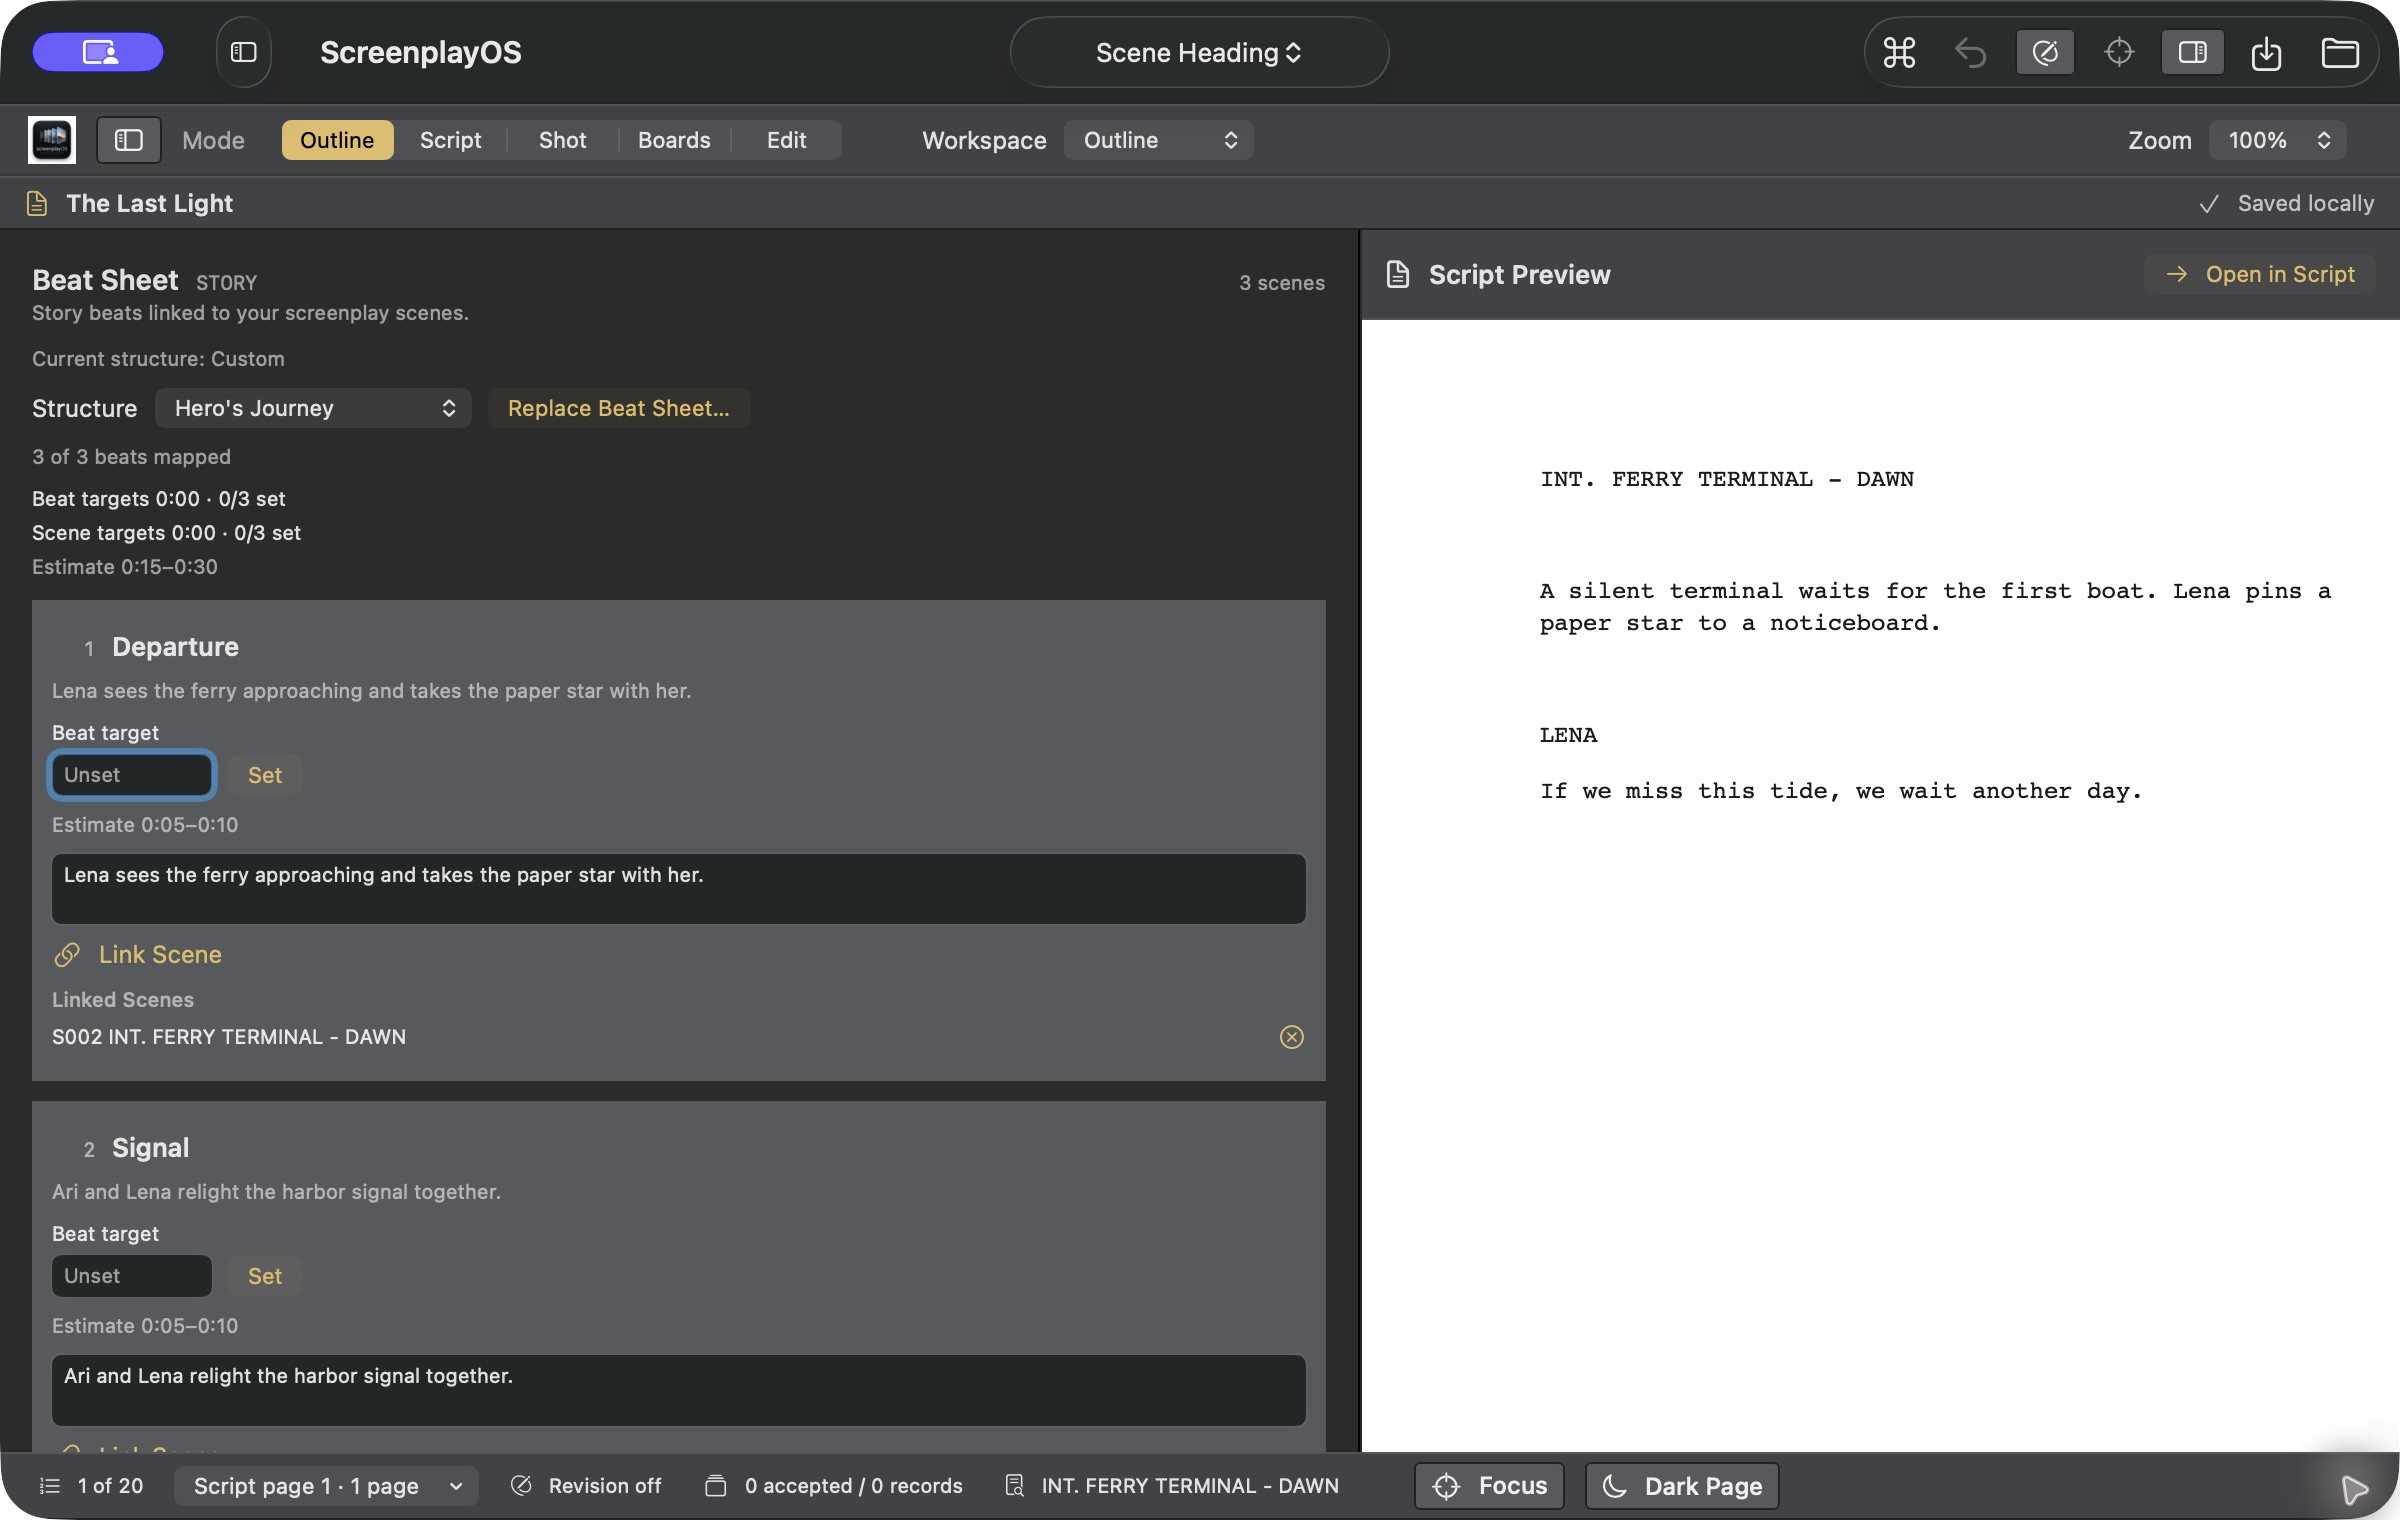
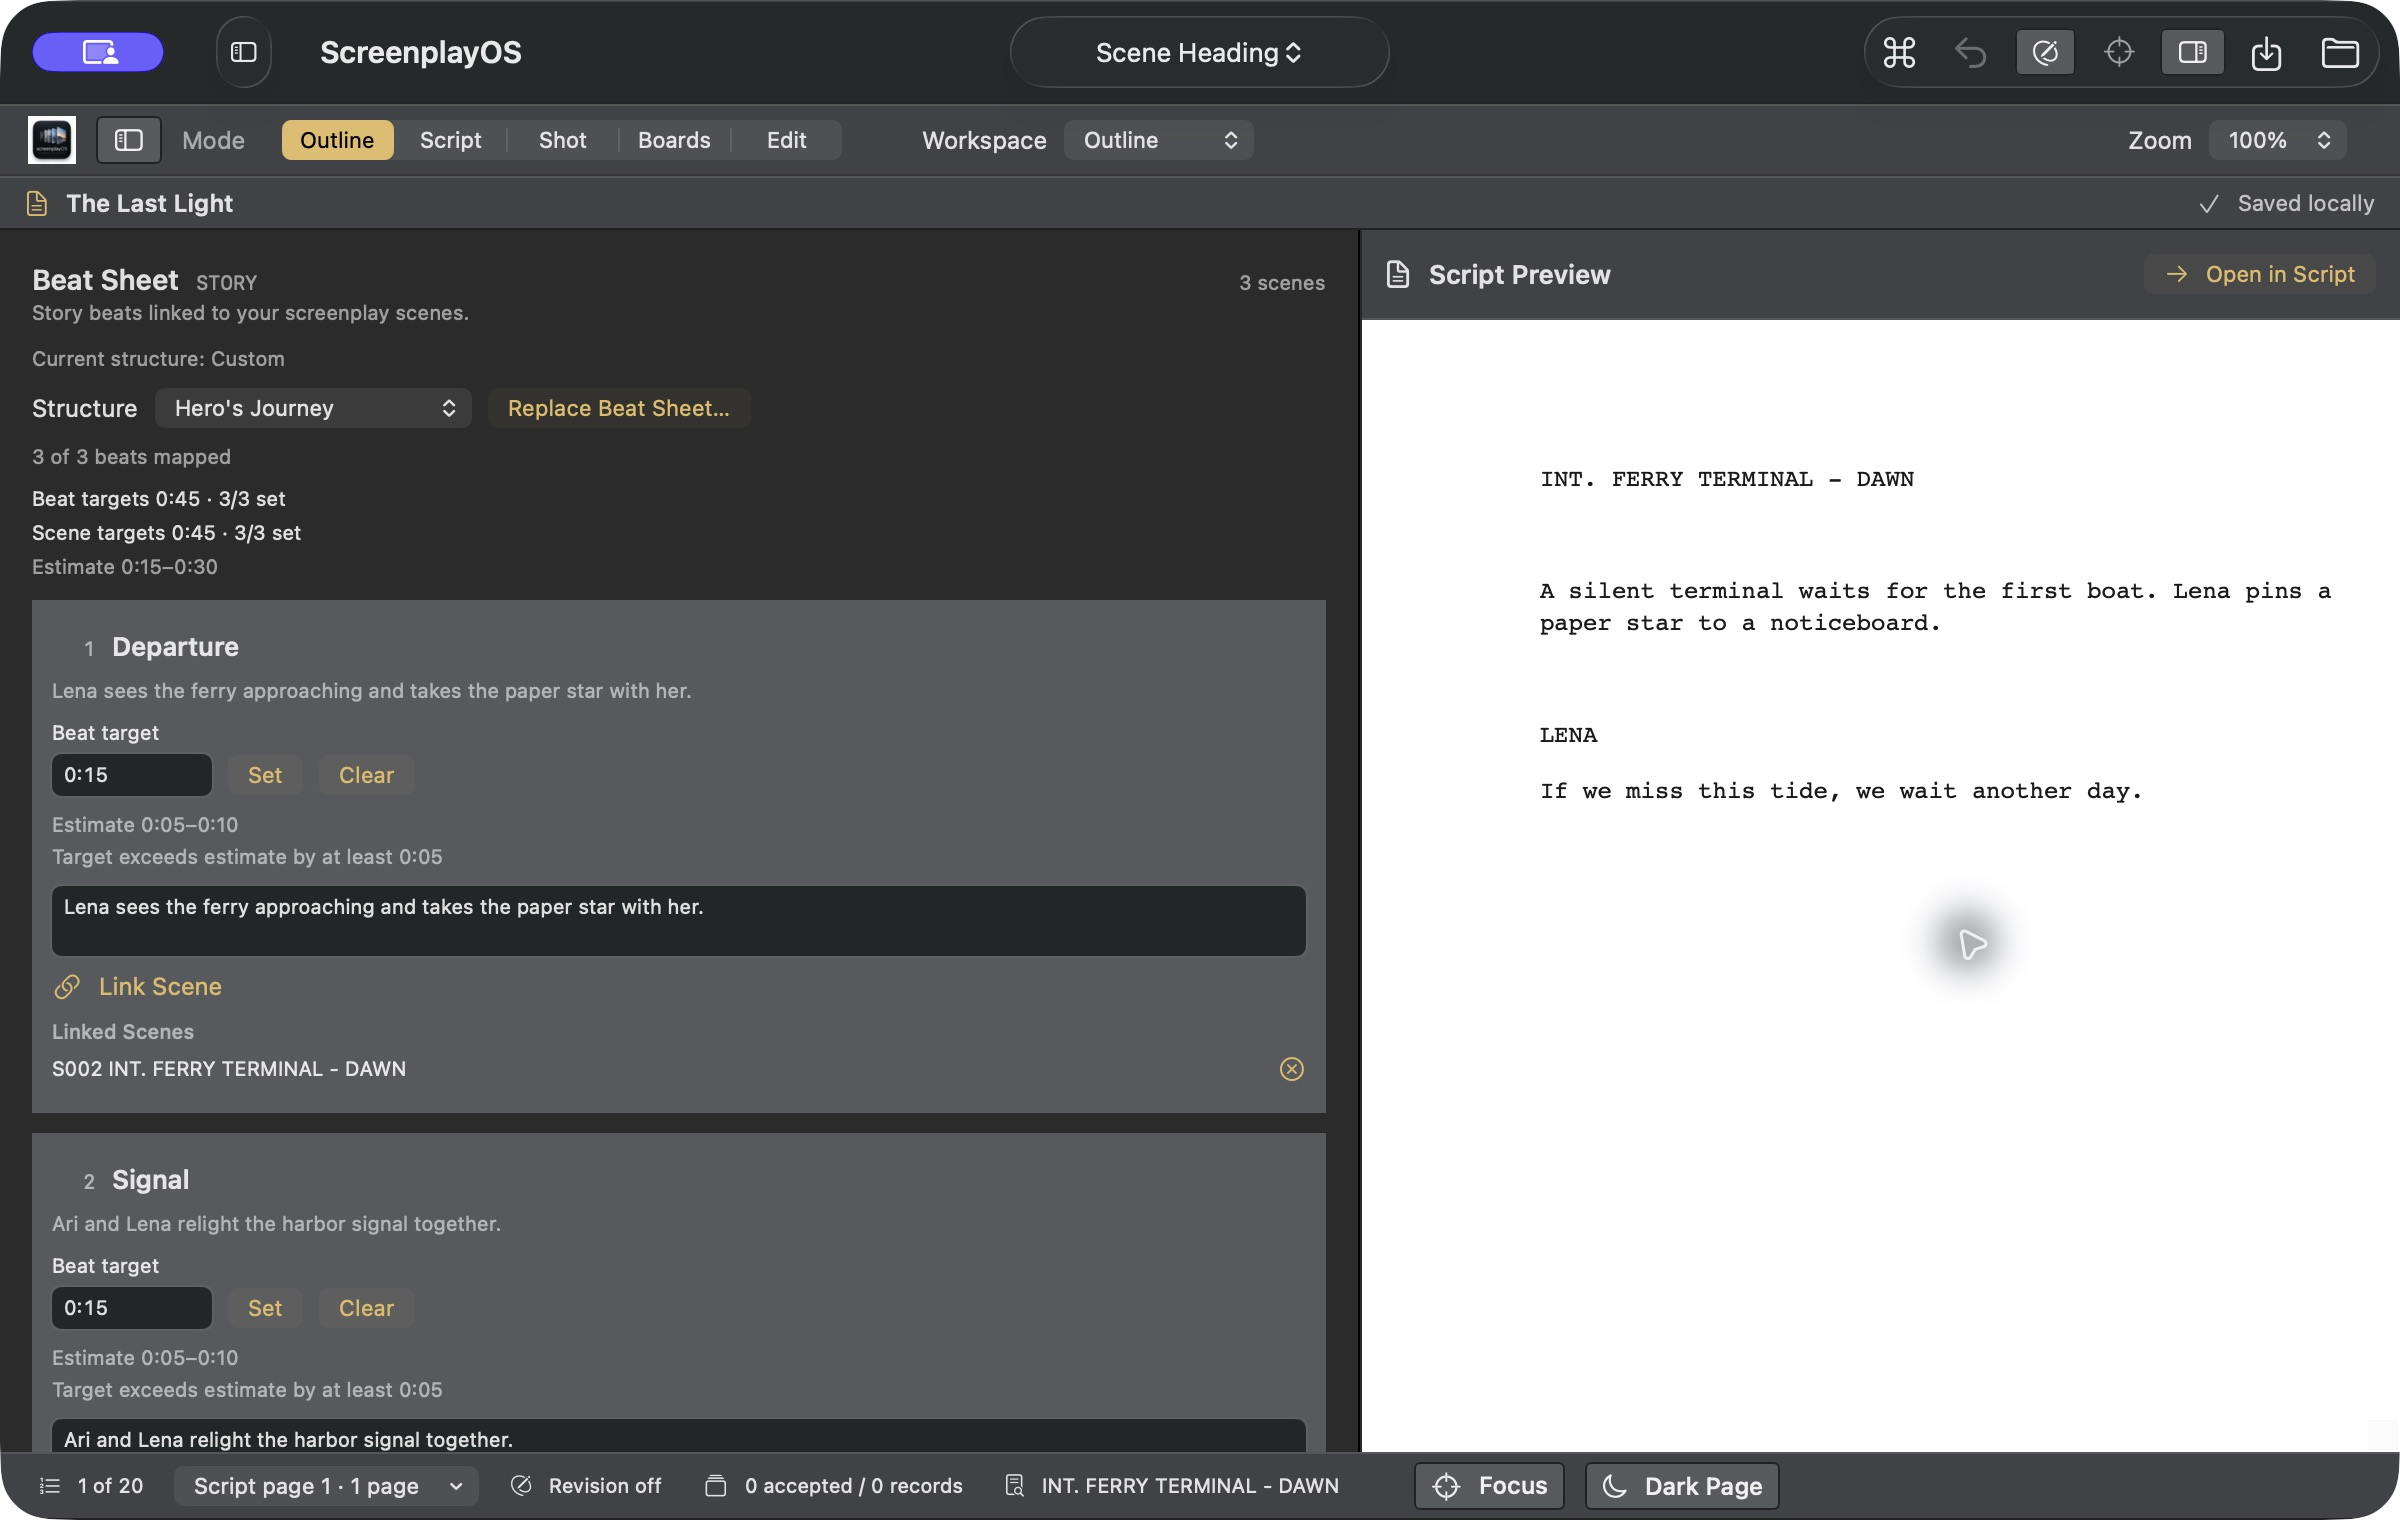
Polish hero and mode screenshot crops

diff --git a/Website/index.html b/Website/index.html
@@ -4,6 +4,7 @@
   <meta charset="utf-8">
   <meta name="viewport" content="width=device-width, initial-scale=1">
   <meta name="theme-color" content="#f5f6f5">
+  <meta name="site-revision" content="round-11">
   <meta name="description" content="A native Mac workspace that takes a story from outline to script, shots, boards, and a timed animatic, with the edit in mind at every stage.">
   <title>ScreenplayOS — Every stage planned for the cut</title>
   <link rel="icon" type="image/png" sizes="32x32" href="assets/brand/favicon-32.png">
@@ -22,7 +23,7 @@
       <div class="hero-copy">
         <p class="eyebrow">NATIVE FILMMAKING WORKSPACE FOR MAC · EARLY ACCESS BETA</p>
         <h1 id="hero-title">From first beat<br>to first cut.</h1>
-        <p class="lead lead-primary">Outline, write, generate shot lists, board, and play a timed animatic in one project.</p>
+        <p class="lead lead-primary">Outline, write, break down shots, board, and play a timed animatic in one project.</p>
         <p class="lead">Optional AI suggests dialogue and generates board images using your own provider key — only when you ask, and only after you see what's sent.</p>
         <form class="signup-form hero-signup" action="https://signup.screenplayos.com/subscribe" method="post" aria-label="Get the ScreenplayOS download by email">
           <label for="hero-email">Email address</label>
@@ -33,7 +34,11 @@
         </form>
         <p class="small-line">Works offline. No account required.</p>
       </div>
-      <div class="hero-art"><div class="hero-crop"><picture><source srcset="assets/screenshots/edit.webp" type="image/webp"><img src="assets/screenshots/edit.png" alt="Edit view with an original illustrated board above a twelve-shot, 45-second timed timeline" width="2400" height="1520" fetchpriority="high"></picture></div></div>
+      <a class="hero-art" href="assets/screenshots/edit.png" target="_blank" rel="noopener" aria-label="Open full-size Edit screenshot">
+        <span class="hero-pane hero-board"><picture><source srcset="assets/screenshots/edit.webp" type="image/webp"><img src="assets/screenshots/edit.png" alt="Original illustrated ferry board above labeled, timed shot clips in ScreenplayOS Edit view" width="2400" height="1520" fetchpriority="high"></picture></span>
+        <span class="hero-pane hero-timeline"><picture><source srcset="assets/screenshots/edit.webp" type="image/webp"><img src="assets/screenshots/edit.png" alt="" width="2400" height="1520" aria-hidden="true"></picture></span>
+        <span class="mode-enlarge">View full-size Edit screenshot ↗</span>
+      </a>
     </section>
     <!-- Walkthrough is hidden until the video is ready.
     <section class="walkthrough" id="walkthrough" aria-labelledby="walkthrough-title"><div class="wrap walkthrough-grid"><div><p class="eyebrow">WALKTHROUGH</p><h2 id="walkthrough-title">One sequence, outline to animatic.</h2><p>A walkthrough of a real sequence from beats to script, shot list, boards, and a playable, timed animatic is being recorded.</p></div><div class="video-placeholder" role="img" aria-label="Walkthrough video is not available yet"><span>Walkthrough coming soon</span></div></div></section>
@@ -42,11 +47,11 @@
       <p class="eyebrow">ONE PROJECT · FIVE VIEWS</p>
       <h2 id="workflow-title">One project. Every stage connected.</h2>
       <ol class="mode-list" aria-label="Outline to Edit workflow">
-        <li class="mode-item"><div class="mode-copy"><span class="mode-number">01</span><h3>Outline</h3><p>Shape the story in beats and see estimated runtime as you plan.</p></div><a class="mode-visual mode-visual-outline" href="assets/screenshots/outline.png" target="_blank" rel="noopener" aria-label="Open full-size Outline screenshot"><span class="mode-crop"><picture><source srcset="assets/screenshots/outline.webp" type="image/webp"><img src="assets/screenshots/outline.png" alt="Outline mode with story beats linked to three screenplay scenes and a script preview" width="2400" height="1520" loading="lazy"></picture></span><span class="mode-enlarge">View full-size screenshot ↗</span></a></li>
+        <li class="mode-item"><div class="mode-copy"><span class="mode-number">01</span><h3>Outline</h3><p>Shape the story in beats and see estimated runtime as you plan.</p></div><a class="mode-visual mode-visual-outline" href="assets/screenshots/outline.png" target="_blank" rel="noopener" aria-label="Open full-size Outline screenshot"><span class="mode-crop"><picture><source srcset="assets/screenshots/outline.webp" type="image/webp"><img src="assets/screenshots/outline.png" alt="Outline Beat Sheet showing three mapped beats, 45 seconds of targets, and a 15-second target beside the first beat estimate" width="2400" height="1520" loading="lazy"></picture></span><span class="mode-enlarge">View full-size screenshot ↗</span></a></li>
         <li class="mode-item"><div class="mode-copy"><span class="mode-number">02</span><h3>Script</h3><p>Write in screenplay format; review each scene’s estimated screen time in Outline.</p></div><a class="mode-visual mode-visual-script" href="assets/screenshots/script.png" target="_blank" rel="noopener" aria-label="Open full-size Script screenshot"><span class="mode-crop"><picture><source srcset="assets/screenshots/script.webp" type="image/webp"><img src="assets/screenshots/script.png" alt="Script mode displaying a formatted screenplay page from The Last Light" width="2400" height="1520" loading="lazy"></picture></span><span class="mode-enlarge">View full-size screenshot ↗</span></a></li>
         <li class="mode-item"><div class="mode-copy"><span class="mode-number">03</span><h3>Shot</h3><p>Break scenes into shots linked to their source script elements.</p></div><a class="mode-visual mode-visual-shot" href="assets/screenshots/shot.png" target="_blank" rel="noopener" aria-label="Open full-size Shot screenshot"><span class="mode-crop"><picture><source srcset="assets/screenshots/shot.webp" type="image/webp"><img src="assets/screenshots/shot.png" alt="Shot mode showing scene text beside linked coverage suggestions and the shot composer" width="2400" height="1520" loading="lazy"></picture></span><span class="mode-enlarge">View full-size screenshot ↗</span></a></li>
-        <li class="mode-item"><div class="mode-copy"><span class="mode-number">04</span><h3>Boards</h3><p>Build board frames from linked shots and set their durations. Optionally ask OpenAI to generate a board image with your Keychain-stored key after reviewing the editable prompt.</p></div><a class="mode-visual mode-visual-boards" href="assets/screenshots/boards.png" target="_blank" rel="noopener" aria-label="Open full-size Boards screenshot"><span class="mode-crop"><picture><source srcset="assets/screenshots/boards.webp" type="image/webp"><img src="assets/screenshots/boards.png" alt="Boards mode showing original illustrated frames linked to shots with authored durations" width="2400" height="1520" loading="lazy"></picture></span><span class="mode-enlarge">View full-size screenshot ↗</span></a></li>
-        <li class="mode-item"><div class="mode-copy"><span class="mode-number">05</span><h3>Edit</h3><p>Play timed boards. Export a timed sequence that opens in Premiere Pro or Final Cut Pro, ready for real footage and sound.</p></div><a class="mode-visual mode-visual-edit" href="assets/screenshots/edit.png" target="_blank" rel="noopener" aria-label="Open full-size Edit screenshot"><span class="mode-crop"><picture><source srcset="assets/screenshots/edit.webp" type="image/webp"><img src="assets/screenshots/edit.png" alt="Edit mode showing an illustrated board above a 45-second timeline of twelve timed shots across three scenes" width="2400" height="1520" loading="lazy"></picture></span><span class="mode-enlarge">View full-size screenshot ↗</span></a></li>
+        <li class="mode-item"><div class="mode-copy"><span class="mode-number">04</span><h3>Boards</h3><p>Build board frames from linked shots and set their durations. Optionally ask OpenAI to generate a board image with your Keychain-stored key after reviewing the editable prompt.</p></div><a class="mode-visual mode-visual-boards" href="assets/screenshots/boards.png" target="_blank" rel="noopener" aria-label="Open full-size Boards screenshot"><span class="mode-crop"><picture><source srcset="assets/screenshots/boards.webp" type="image/webp"><img src="assets/screenshots/boards.png" alt="Boards view with one complete illustrated board, its 3.5-second duration, and the Generate board image button" width="2400" height="1520" loading="lazy"></picture></span><span class="mode-enlarge">View full-size screenshot ↗</span></a></li>
+        <li class="mode-item"><div class="mode-copy"><span class="mode-number">05</span><h3>Edit</h3><p>Play timed boards. Export a timed sequence that opens in Premiere Pro or Final Cut Pro, ready for real footage and sound.</p></div><a class="mode-visual mode-visual-edit" href="assets/screenshots/edit.png" target="_blank" rel="noopener" aria-label="Open full-size Edit screenshot"><span class="mode-crop"><picture><source srcset="assets/screenshots/edit.webp" type="image/webp"><img src="assets/screenshots/edit.png" alt="Edit timeline with labeled shot clips and authored durations from a 45-second sequence" width="2400" height="1520" loading="lazy"></picture></span><span class="mode-enlarge">View full-size screenshot ↗</span></a></li>
       </ol>
       <p class="pipeline-note">Scene identity carries through every view. The export contains timing placeholders, not media.</p>
     </section>

diff --git a/Website/style.css b/Website/style.css
@@ -27,3 +27,38 @@ button,input,select{font:inherit}button{cursor:pointer}button:focus-visible,inpu
 @media(max-width:760px){.hero{display:flex;flex-direction:column}.mode-visual-outline{--crop-y:-38%}.mode-visual-boards{--crop-y:-28%}.mode-visual-edit{--crop-y:-53%}}
 /* Keep the product and optional-AI statements distinct, with a small gap. */
 .hero-copy .lead-primary{margin-bottom:8px}
+
+/* Round 11: show the complete board and a readable timeline as two views of
+   the same Edit capture. Each crop maps source pixels into an overflow frame. */
+.hero-art{display:block;text-decoration:none;color:var(--blue)}
+.hero-art:focus-visible{outline:3px solid #176ca7;outline-offset:4px}
+.hero-pane{position:relative;display:block;overflow:hidden;background:var(--deep);border:1px solid var(--line)}
+.hero-pane picture{display:block}
+.hero-pane img{position:absolute;left:0;top:0;display:block;max-width:none;height:auto;border:0}
+.hero-board{aspect-ratio:640/360}
+.hero-board img{width:375%;transform:translate(-36.667%,-29.934%)}
+.hero-timeline{aspect-ratio:784/210;margin-top:4px}
+.hero-timeline img{width:306.122%;transform:translate(-1%,-68.947%)}
+.hero-art .mode-enlarge{margin-top:9px}
+
+/* Source-safe rectangles: edges fall in margins or between UI elements. */
+.mode-crop{height:auto}
+.mode-crop img{position:absolute;left:0;top:0;height:auto;max-width:none;border:0}
+.mode-visual-outline .mode-crop{aspect-ratio:1320/895}
+.mode-visual-outline .mode-crop img{width:181.818%;transform:translate(-1%,-15.789%)}
+.mode-visual-script .mode-crop{aspect-ratio:880/550}
+.mode-visual-script .mode-crop img{width:272.727%;transform:translate(-35.833%,-23.026%)}
+.mode-visual-shot .mode-crop{aspect-ratio:1020/810}
+.mode-visual-shot .mode-crop img{width:235.294%;transform:translate(-55%,-14.803%)}
+.mode-visual-boards .mode-crop{aspect-ratio:660/690}
+.mode-visual-boards .mode-crop img{width:363.636%;transform:translate(-49.583%,-15.132%)}
+.mode-visual-edit .mode-crop{aspect-ratio:784/210}
+.mode-visual-edit .mode-crop img{width:306.122%;transform:translate(-1%,-68.947%)}
+@media(max-width:760px){
+  .hero-timeline{aspect-ratio:391/210}
+  .hero-timeline img{width:613.811%}
+  .mode-visual-outline .mode-crop{aspect-ratio:960/895}
+  .mode-visual-outline .mode-crop img{width:250%}
+  .mode-visual-edit .mode-crop{aspect-ratio:391/210}
+  .mode-visual-edit .mode-crop img{width:613.811%}
+}
